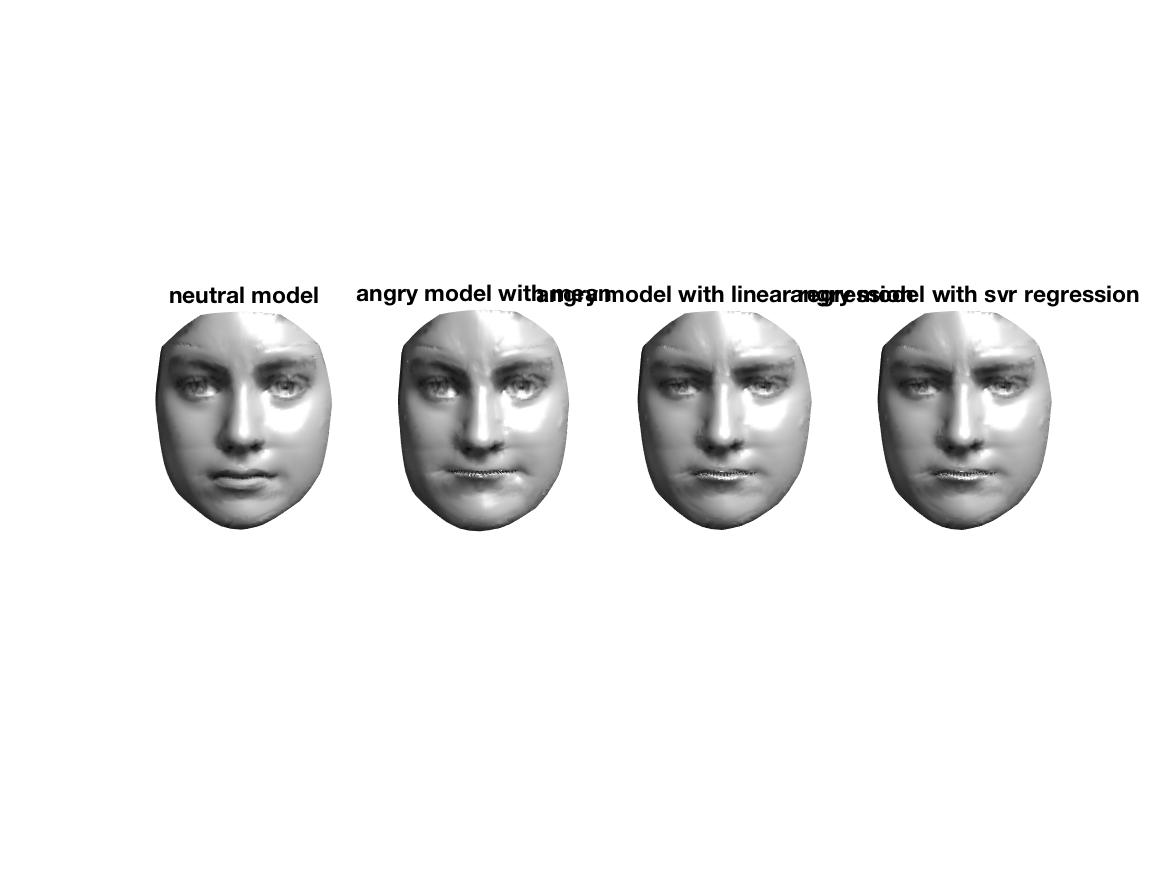
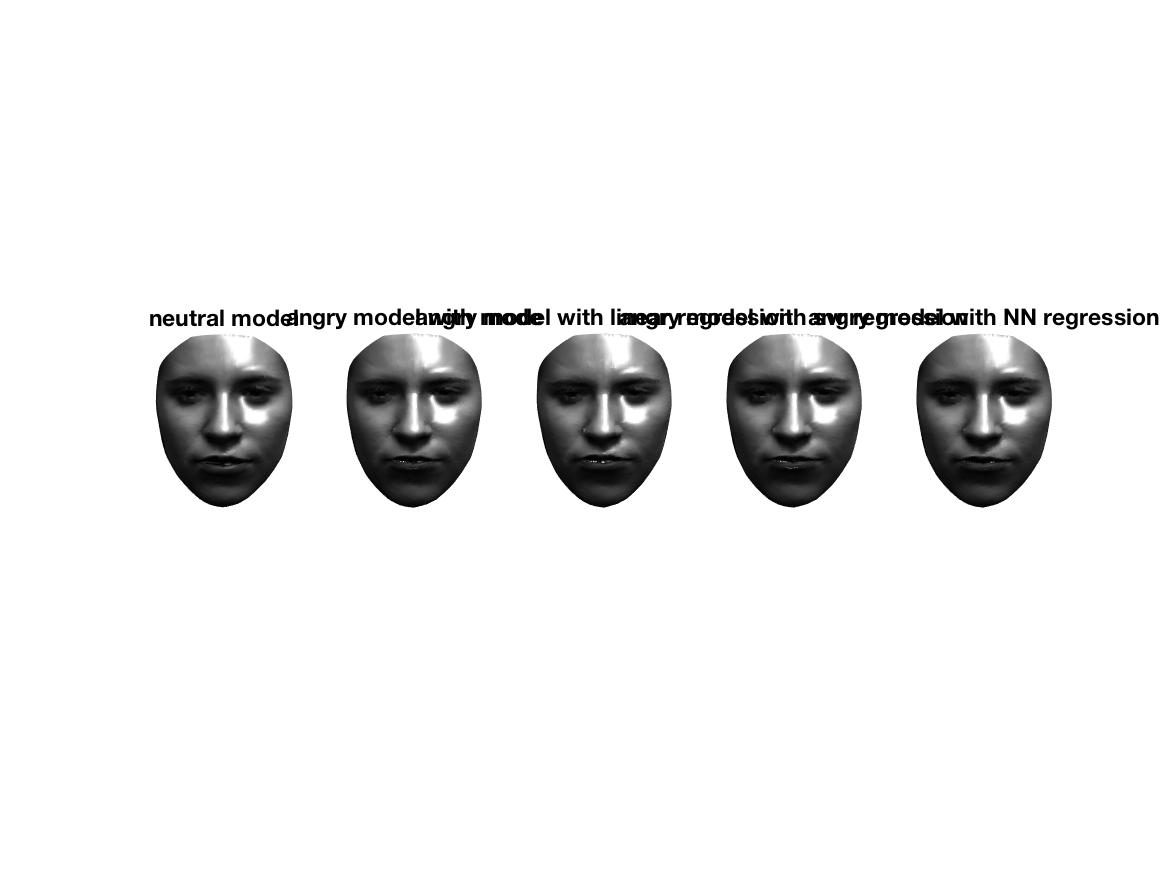
push

Changed region(s): [[0.1234, 0.3086, 1.0, 0.6171]]

diff --git a/dataset/deform_code/main.py b/dataset/deform_code/main.py
@@ -29,7 +29,7 @@ def_neutral = def_coeff[labels_expr == 'neutral']
 expressions = ["disgust", "surprise", "angry", "sadness", "fear", "contempt", "happy"]
 expr = "angry"
 technique = "mean"
-n_examples = 1
+n_examples = 5
 alpha = 1
 kernels = ["poly", "rbf", "sigmoid"]
 
@@ -39,25 +39,28 @@ kernels = ["poly", "rbf", "sigmoid"]
 
 indexes = np.random.randint(0, high = len(def_neutral), size = n_examples+1)
 
-for expr in expressions:
+for i in range(0, n_examples):
 
-    print("Expression: ", expr)
-    regr_lin = prediction.regressor(expr, "linear")
-    regr_svr_sig = prediction.regressor(expr, "svr", "sigmoid")
-    pred_vector = prediction.m_prediction(expr, technique)
+    for expr in expressions:
 
-    for i in range(0, n_examples):
+        print("Expression: ", expr)
+        regr_lin = prediction.regressor(expr, "linear")
+        regr_svr_sig = prediction.regressor(expr, "svr", "sigmoid")
+        pred_vector = prediction.m_prediction(expr, technique)
+        regr_nn = prediction.neural_network(expr)
 
         def_neutral_v = def_neutral[indexes[i]]
 
-        def_v2 = def_neutral_v + pred_vector * alpha
+        def_v2 = def_neutral_v + pred_vector + alpha
 
         def_v3 = def_neutral_v + regr_lin.predict(def_neutral_v.reshape(1, -1)) * alpha
 
         def_v4 = def_neutral_v + regr_svr_sig.predict(def_neutral_v.reshape(1, -1)) * alpha
 
+        def_v5 = def_neutral_v + regr_nn.predict(def_neutral_v.reshape(1, -1)) * (alpha + 0.5)
+
         eng.deform_and_visualize(matlab.double(def_neutral_v.tolist()), matlab.double(def_v2.tolist()),
-                                 matlab.double(def_v3.tolist()), matlab.double(def_v4.tolist()),
+                                 matlab.double(def_v3.tolist()), matlab.double(def_v4.tolist()), matlab.double(def_v5.tolist()),
                                  expr, technique, "results/" + expr + "_" + technique + "_" + str(i) + ".jpg", int(indexes[i]))
 
 

diff --git a/dataset/deform_code/py_script/prediction.py b/dataset/deform_code/py_script/prediction.py
@@ -3,6 +3,7 @@ import numpy as np
 
 from keras.models import Sequential
 from keras.layers import Dense
+from keras import backend
 import keras.optimizers
 
 from sklearn.cluster import MeanShift, estimate_bandwidth
@@ -116,21 +117,21 @@ def m_prediction(expr = 'happy', technique = 'mean', bandwidth = None):
         # Computing means
         return np.mean(expressions_dict[expr], axis=0)
 
-def neural_network(expr = "happy"):
+def neural_network(expr = "happy", learning_rate = 0.01):
 
     #network model definition
     model = Sequential()
 
     model.add(Dense(units=300, activation='relu', input_dim=300))
 
-    model.add(Dense(units=500, activation='tanh'))      #hidden layer
+    model.add(Dense(units=500, activation='tanh')) #hidden layer
 
     model.add(Dense(units=300, activation='relu'))
 
-    learning_rate = 0.01
-    optimizer = keras.optimizers.Adam(lr=learning_rate)
+    learning_rate = learning_rate
+    optimizer = keras.optimizers.Adam(lr = learning_rate)
 
-    model.compile(optimizer=optimizer, loss='mse', metrics=['accuracy'])
+    model.compile(optimizer = optimizer, loss = 'mse', metrics = [R_metric])
 
     #load and split data
     expressions_dict, dataset_dict = load_data()
@@ -140,12 +141,16 @@ def neural_network(expr = "happy"):
 
     X_train, X_test, y_train, y_test = train_test_split(X, y, test_size=0.2)
 
-    model.fit(X_train,y_train, epochs=20)
+    model.fit(X_train,y_train, epochs = 20)
 
     pred_test = model.predict(X_test)
-    print(pred_test)
 
     return model
+
+def R_metric(y_true, y_pred):
+    SS_res =  backend.sum(backend.square( y_true-y_pred ))
+    SS_tot = backend.sum(backend.square( y_true - backend.mean(y_true) ) )
+    return ( 1 - SS_res/(SS_tot + backend.epsilon()) )
 
 def regressor(expr, tec, kernel = "rbf", cv_test = False, cv_array = 10):
     expressions_dict, dataset_dict = load_data()

diff --git a/dataset/deform_code/deform_and_visualize.m b/dataset/deform_code/deform_and_visualize.m
@@ -1,4 +1,4 @@
-function done = deform_and_visualize(def_neutral, def_v2, def_v3, def_v4, expr, tec, filename, index_texture)
+function done = deform_and_visualize(def_neutral, def_v2, def_v3, def_v4, def_v5, expr, tec, filename, index_texture)
     
     figure1 = figure;
     
@@ -15,25 +15,30 @@ function done = deform_and_visualize(def_neutral, def_v2, def_v3, def_v4, expr, 
     texture = colors_all(:,:,index_texture); 
     options.face_vertex_color = texture;
 
-    subplot(1,4,1)
+    subplot(1,5,1)
     defNeutral = deform_3D_shape_fast(avgModel',Components, def_neutral');
     plot_mesh(defNeutral,compute_delaunay(defNeutral), options);
     title('neutral model')
 
-    subplot(1,4,2)
+    subplot(1,5,2)
     defShape = deform_3D_shape_fast(avgModel',Components, def_v2');
     plot_mesh(defShape,compute_delaunay(defShape), options);
-    title(strcat(expr, " model with mean"))
+    title(strcat(expr, " model with mode"))
 
-    subplot(1,4,3)
+    subplot(1,5,3)
     defShape = deform_3D_shape_fast(avgModel',Components, def_v3');
     plot_mesh(defShape,compute_delaunay(defShape), options);
     title(strcat(expr, " model with linear regression"))
 
-    subplot(1,4,4)
+    subplot(1,5,4)
     defShape = deform_3D_shape_fast(avgModel',Components, def_v4');
     plot_mesh(defShape,compute_delaunay(defShape), options);
     title(strcat(expr, " model with svr regression"))
+
+    subplot(1,5,5)
+    defShape = deform_3D_shape_fast(avgModel',Components, def_v5');
+    plot_mesh(defShape,compute_delaunay(defShape), options);
+    title(strcat(expr, " model with NN regression"))
 
     saveas(figure1,filename);
 
